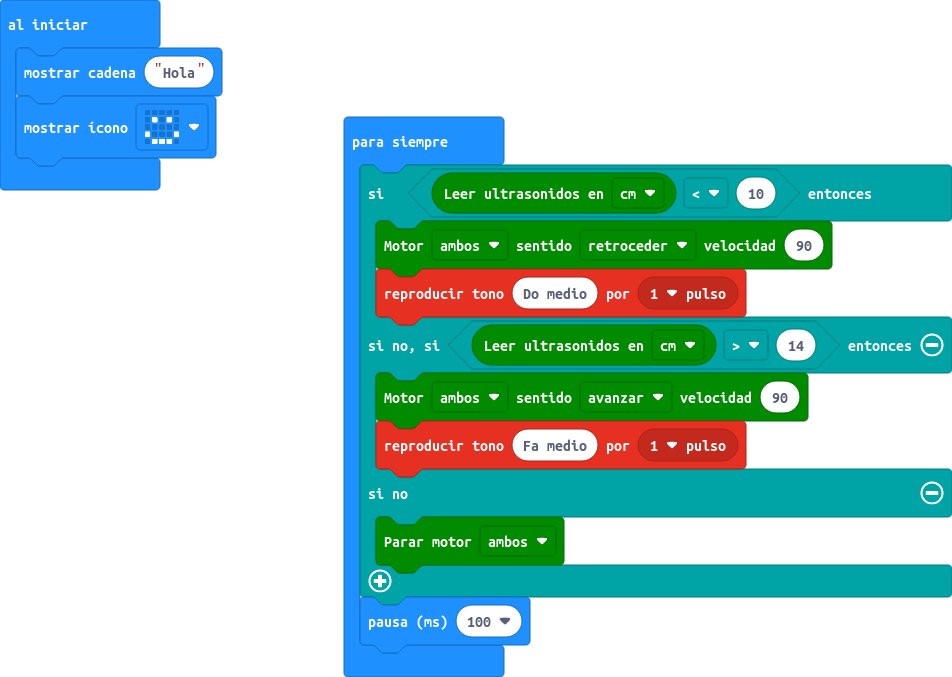
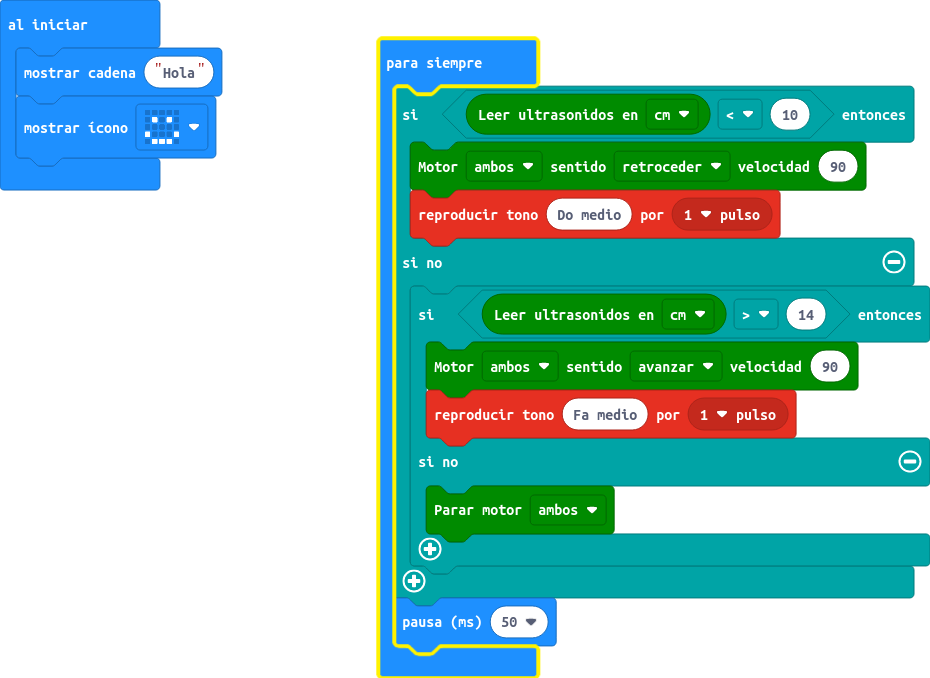
Equivocación. Debo poner este diagrama

diff --git a/main.ts b/main.ts
@@ -4,11 +4,13 @@ basic.forever(function () {
     if (maqueen.Ultrasonic(PingUnit.Centimeters) < 10) {
         maqueen.motorRun(maqueen.Motors.All, maqueen.Dir.CCW, 90)
         music.playTone(262, music.beat(BeatFraction.Whole))
-    } else if (maqueen.Ultrasonic(PingUnit.Centimeters) > 14) {
-        maqueen.motorRun(maqueen.Motors.All, maqueen.Dir.CW, 90)
-        music.playTone(349, music.beat(BeatFraction.Whole))
     } else {
-        maqueen.motorStop(maqueen.Motors.All)
+        if (maqueen.Ultrasonic(PingUnit.Centimeters) > 14) {
+            maqueen.motorRun(maqueen.Motors.All, maqueen.Dir.CW, 90)
+            music.playTone(349, music.beat(BeatFraction.Whole))
+        } else {
+            maqueen.motorStop(maqueen.Motors.All)
+        }
     }
-    basic.pause(100)
+    basic.pause(50)
 })
